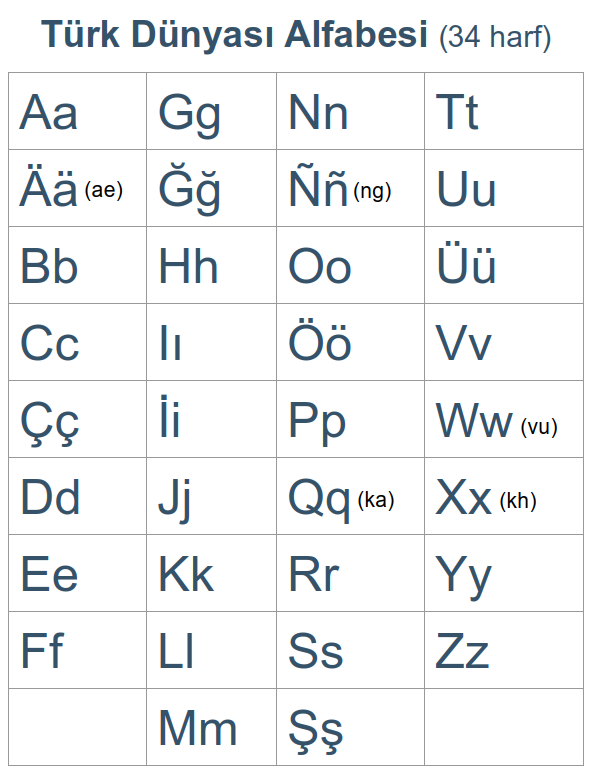
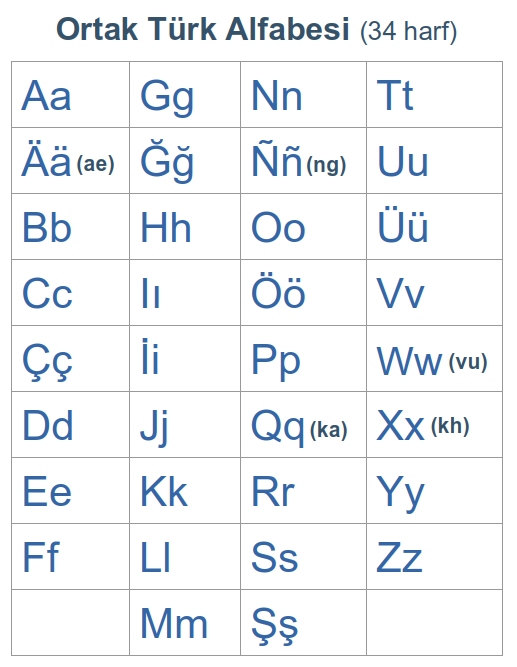
none

Changed region(s): [[0.0, 0.09, 0.9903, 0.9895], [0.0619, 0.0, 0.9284, 0.09]]

diff --git a/ortak-turk-alfabesi.html b/ortak-turk-alfabesi.html
@@ -33,9 +33,9 @@
 
 <h1>Ortak Türk Alfabesi</h1>
 
-<p><b>Ortak Türk Alfabesi</b>, Türk dünyasındaki farklı lehçeler ve dil ihtiyaçları göz önünde bulundurularak tasarlanmıştır.</p>
+<p><b>Ortak Türk Alfabesi</b>, Türk dünyasındaki farklı lehçeler ve dil ihtiyaçları göz önünde bulundurularak hazılanmıştır.</p>
 
-<p>34 harfli olan bu alfabe, Türk devletleri arasında dil uyumunu güçlendirmeyi, iletişimi kolaylaştırmayı, kültürel bağları derinleştirmeyi ve ortak dil anlayışını teşvik ederek Türk dünyasındaki işbirliğini ve ortak kimlik bilincini pekiştirmeyi hedeflemektedir.</p>
+<p>34 harfli olan bu alfabe, Türk Devletleri Teşkilatı arasında dil uyumunu güçlendirmeyi, iletişimi kolaylaştırmayı, kültürel bağları derinleştirmeyi ve ortak dil anlayışını teşvik ederek Türk dünyasındaki işbirliğini ve ortak kimlik bilincini pekiştirmeyi hedeflemektedir.</p>
 
 <p><img class="invert" alt="Ortak Türk Alfabesi" title="Ortak Türk Alfabesi" src="/image/ortak-turk-alfabesi.png"><br>
 <i>Grafik: Ortak Türk Alfabesi</i></p>
